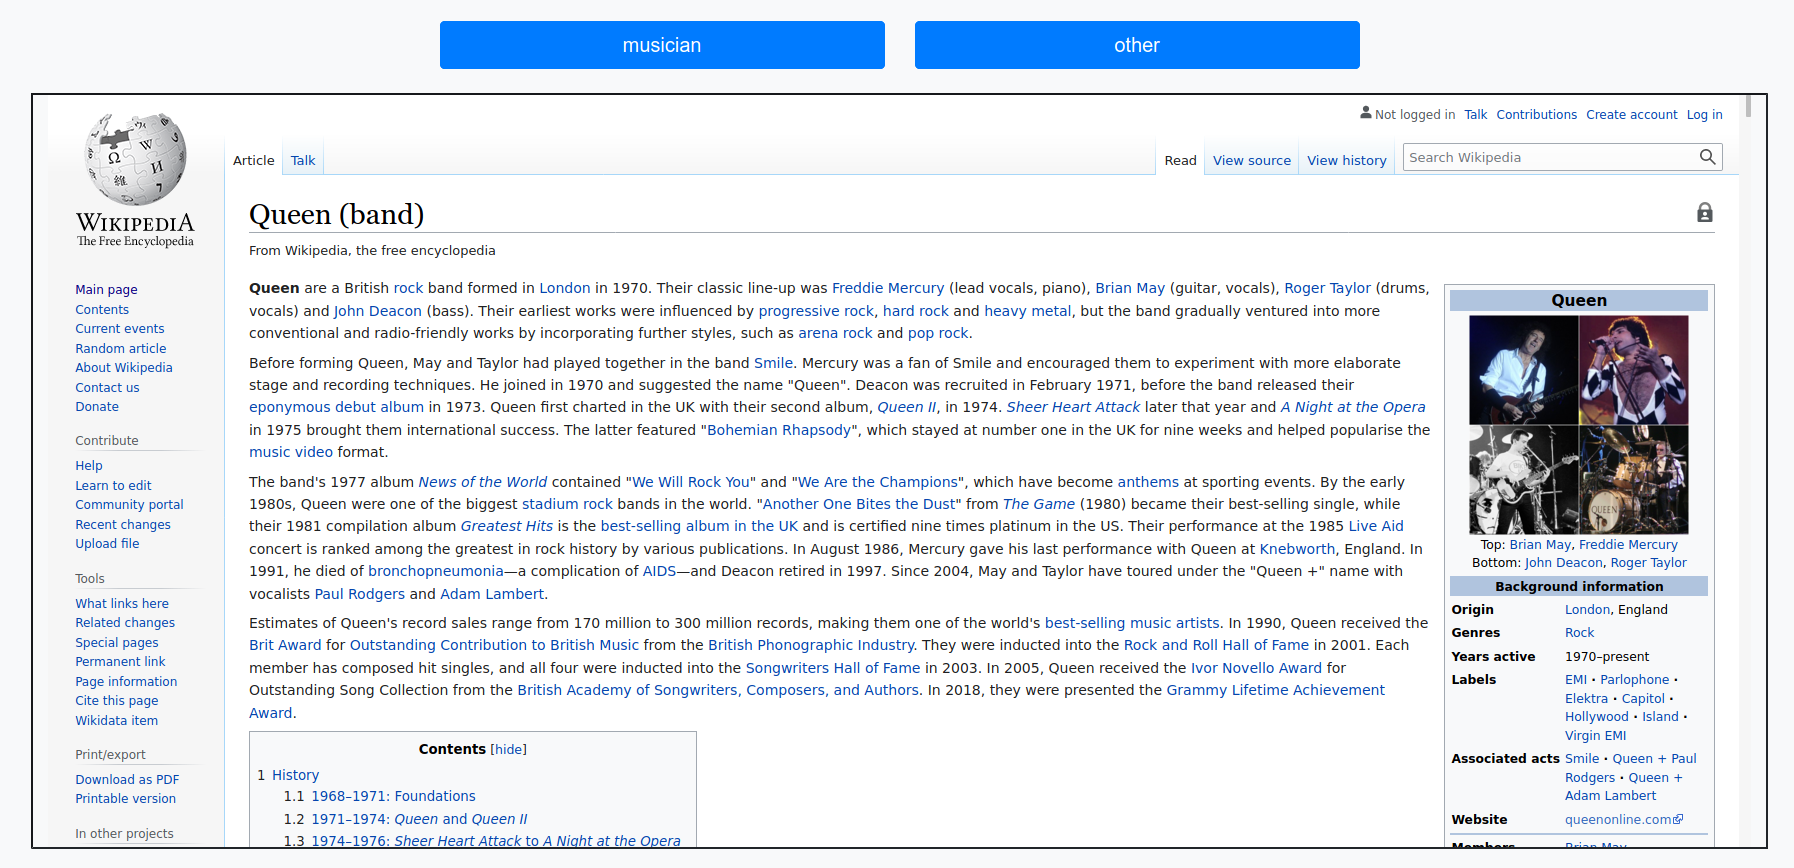
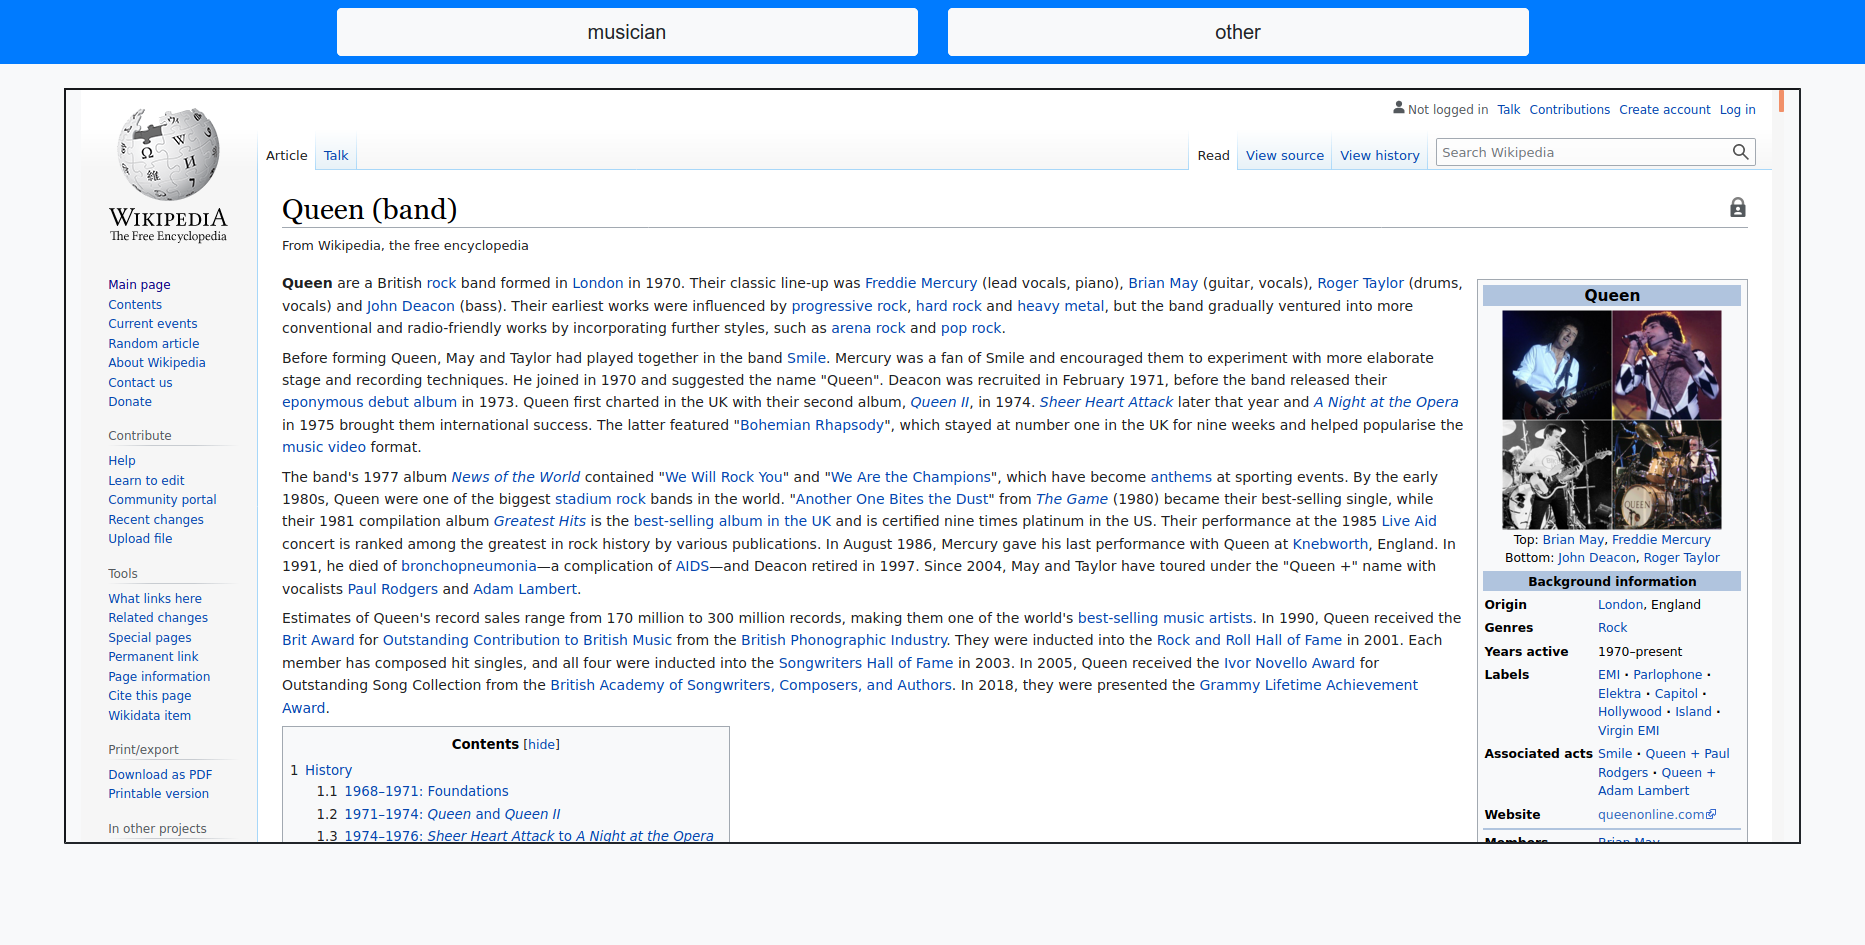
Correcciones en tagger

Changed region(s): [[0.0, 0.0, 1.0, 0.9954], [0.8116, 0.9332, 0.8428, 0.9954]]

diff --git a/tagger/index.html b/tagger/index.html
@@ -20,17 +20,16 @@
     </style>
 </head>
 <body class="bg-light">
-    <br>
-    <div class="container">
-        <div class="row justify-content-center">
-            <div class="col-5">
-                <button id="musician" type="button" class="btn btn-primary btn-lg btn-block">musician</button>
+    <nav class="navbar navbar-expand-sm bg-primary text-light">
+        <form class="navbar-form d-flex justify-content-center w-100" role="search">
+            <div class="col-4">
+                <button id="musician" type="button" class="btn btn-light btn-lg btn-block">musician</button>
             </div>
-            <div class="col-5">
-                <button id="other" type="button" class="btn btn-primary btn-lg btn-block">other</button>
+            <div class="col-4">
+                <button id="other" type="button" class="btn btn-light btn-lg btn-block">other</button>
             </div>
-        </div>
-    </div>
+        </form>
+    </nav>
     <br>
     <div class="row justify-content-center">
       <iframe id="web" class="col-md-11 bg-light" src="about:blank" ></iframe>

diff --git a/tagger/app.py b/tagger/app.py
@@ -15,6 +15,11 @@ app = Flask(__name__)
 
 @app.route("/")
 def root():
+    global index, unclassified_pages
+
+    index = -1
+    unclassified_pages = list(sorted(os.listdir(os.path.join(raw_data_dir, "unclassified"))))
+
     return send_from_directory("", "index.html")
 
 
@@ -51,8 +56,6 @@ def tag():
 
 
 if __name__ == "__main__":
-    unclassified_pages = list(sorted(os.listdir(os.path.join(raw_data_dir, "unclassified"))))
-
     with open(os.path.join(data_dir, "classes.csv")) as f:
         reader = csv.DictReader(f, delimiter=";")
         url_mapping = {row["md5"]: row["url"] for row in reader}
